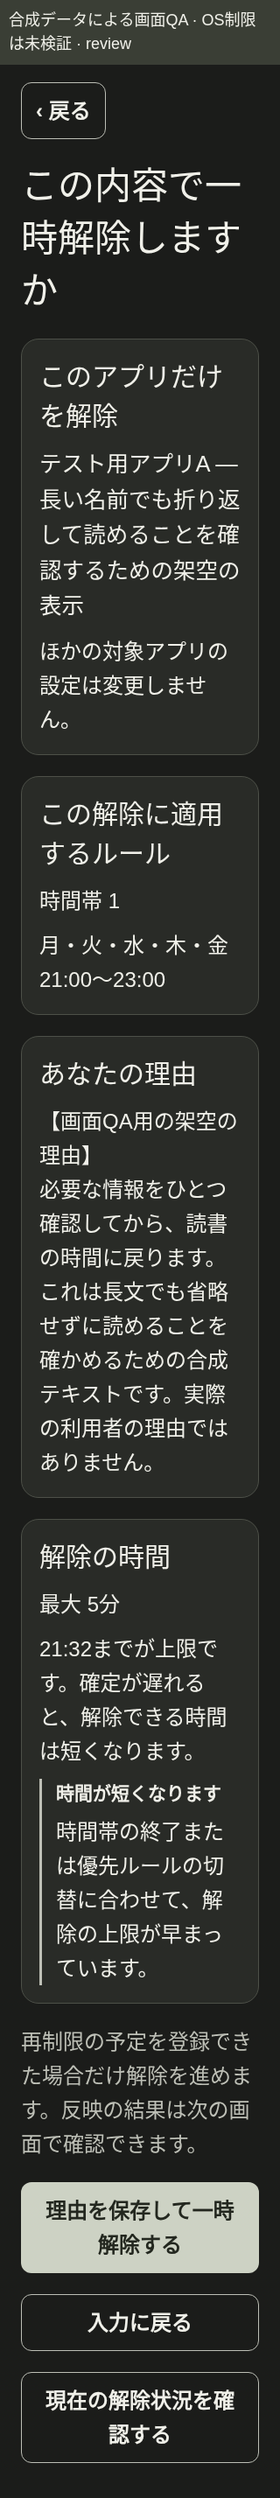
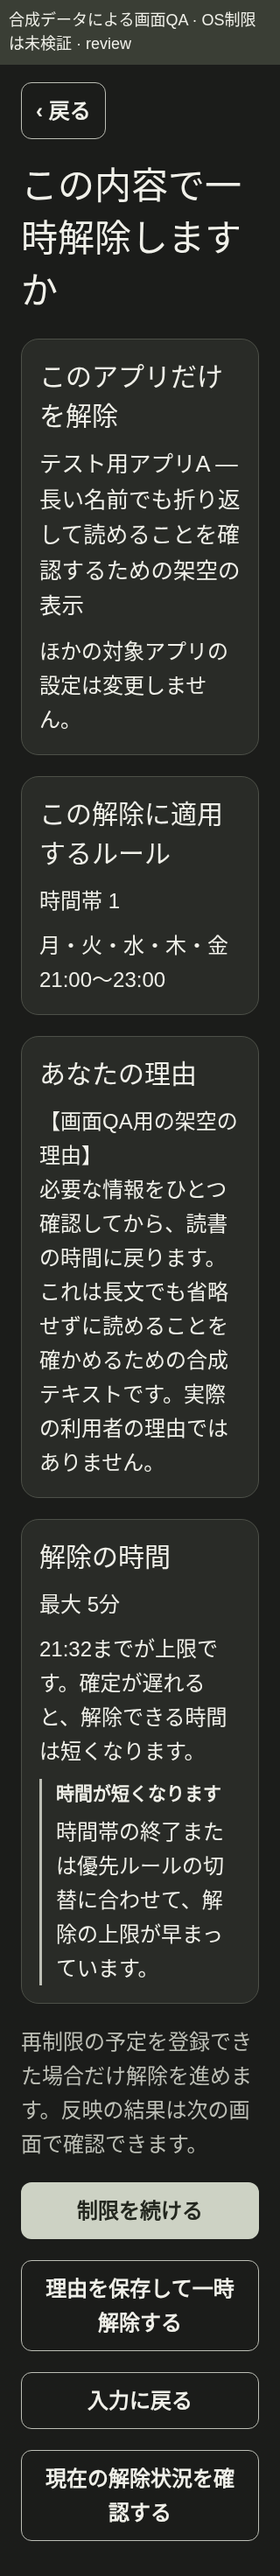
docs(qa): refresh the explicit continuation screen evidence

diff --git a/docs/qa/main-application-flow.md b/docs/qa/main-application-flow.md
@@ -18,7 +18,7 @@ DESIGN原則1〜5、U01〜U07に従い、状態と問題、時間帯ごとの円
 
 ## Web画像の出所
 
-画像の製品コードは `4fbd85407881aff78cfe0bdb55163ceb9e2a489c`。後続の画像・文書コミットは表示コードを変えない。時刻を `2026-11-09T21:30:00Z` に固定したLinux Chromium。データは架空で、上部に「合成データによる画面QA · OS制限は未検証」と表示する。画像・bundleのSHA256、browser版、幅、実行エラーは [manifest.json](main-flow/manifest.json) に記録する。
+画像の製品コードは `c16f77867c4b512a90e07cf8bbe5765859f5c577`。後続の画像・文書コミットは表示コードを変えない。時刻を `2026-11-09T21:30:00Z` に固定したLinux Chromium。データは架空で、上部に「合成データによる画面QA · OS制限は未検証」と表示する。画像・bundleのSHA256、browser版、幅、実行エラーは [manifest.json](main-flow/manifest.json) に記録する。
 
 | 画像 | 条件 |
 | --- | --- |
